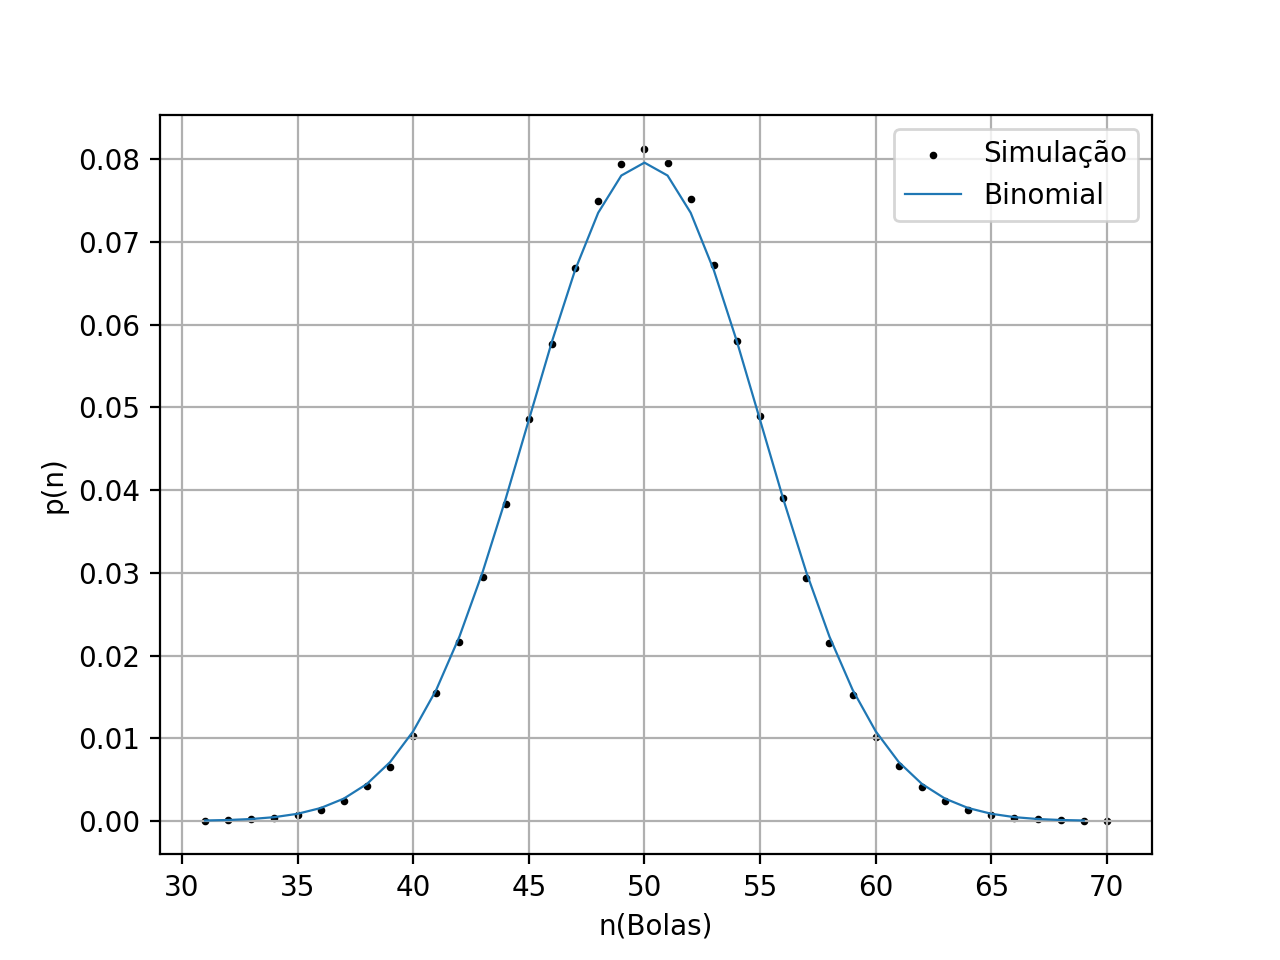
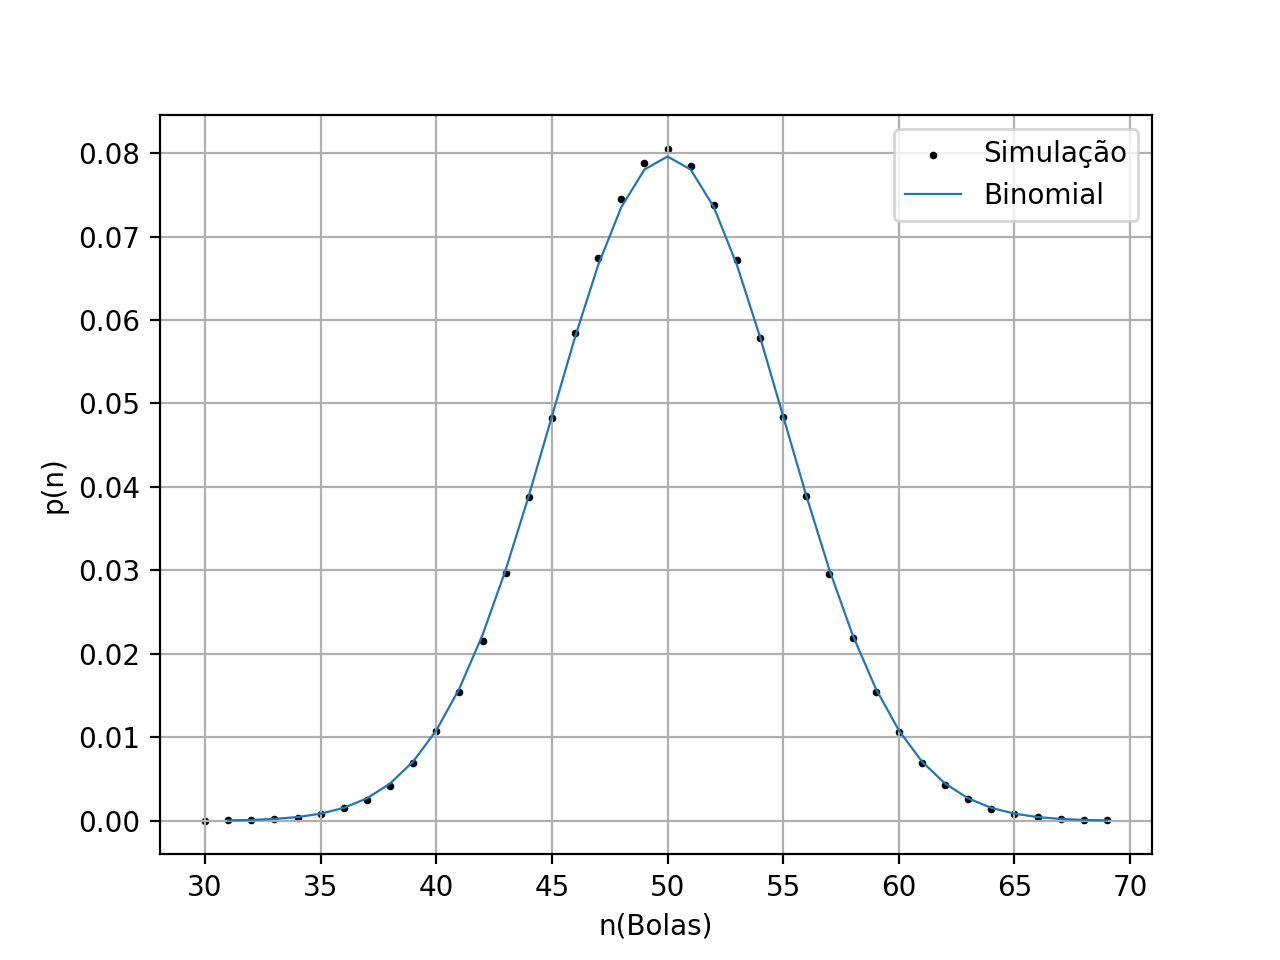
Atualização

diff --git a/Atividades-aula/ex-3/mc_3.c b/Atividades-aula/ex-3/mc_3.c
@@ -13,6 +13,10 @@ int main(){
     double funcao(int t, int na, int n);
     int seed = time(NULL);
     srand(seed);
+	/*
+	for(int i = 0; i < 1000; ++i){
+		printf("%d\n", (int) uniform(0, 100));
+	}*/
 	
     // Criação do arquivo
     char titulo1[20], titulo2[20];
@@ -28,7 +32,7 @@ int main(){
 	
 	// Dinâmica até sair do transiente
 	for(t; t < EE; t++){
-		rand = (int) uniform(1, N);
+		rand = (int) uniform(0, N);
 		if(rand < urnaA) urnaA--;
         else urnaA++;
 	}
@@ -36,7 +40,7 @@ int main(){
 	// Coletando do Estado estacionário
 	for(t; t < TF; t++){
 		// Faz a dinâmica
-		rand = (int) uniform(0, N-2);
+		rand = (int) uniform(0, N);
 		if(rand < urnaA) urnaA--;
         else urnaA++;
 	    
@@ -52,7 +56,7 @@ int main(){
 	// Escreve o arquivo de saída
     for(int i = 0; i < N; i++){
    	    probs[i] /= (float) cont;
-    	fprintf(saida, "%i\t%lf\n", i+1, probs[i]);
+    	fprintf(saida, "%i\t%lf\n", i, probs[i]);
     }
 	
 	// Roda o script de python
